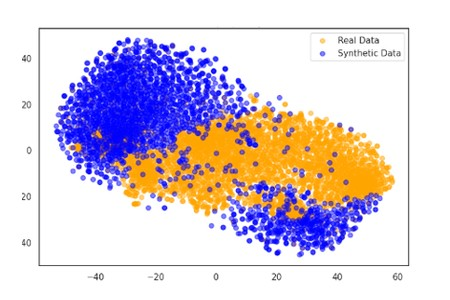
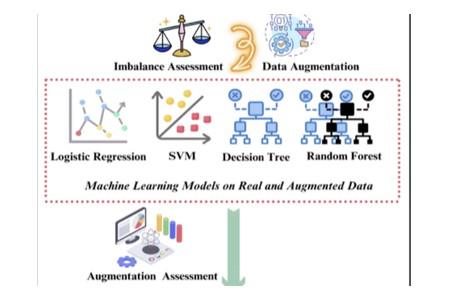
Figures for the healthcare and optimization cards

diff --git a/index.html b/index.html
@@ -178,7 +178,7 @@
         </article>
 
         <article class="project">
-          <img class="project-fig" src="assets/projects/healthcare.jpg" width="450" height="300" alt="t-SNE plot of real and synthetic patient data overlapping">
+          <img class="project-fig" src="assets/projects/healthcare.jpg" width="450" height="300" alt="Clinical decision-support pipeline: imbalance assessment and data augmentation, four machine learning models on real and augmented data, then augmentation assessment">
           <div class="project-body">
             <h3>Machine Learning in Healthcare</h3>
             <p class="project-meta">May 2023 – Aug 2025 · West Virginia University</p>
@@ -191,7 +191,8 @@
           </div>
         </article>
 
-        <article class="project no-fig">
+        <article class="project">
+          <img class="project-fig" src="assets/projects/optimization.jpg" width="450" height="300" alt="Flowchart of the binary group teaching optimization algorithm: the population splits into an outstanding group and an average group, each running teacher and student phases">
           <div class="project-body">
             <h3>Optimization Algorithm Development</h3>
             <p class="project-meta">Sep 2021 – Sep 2023</p>
